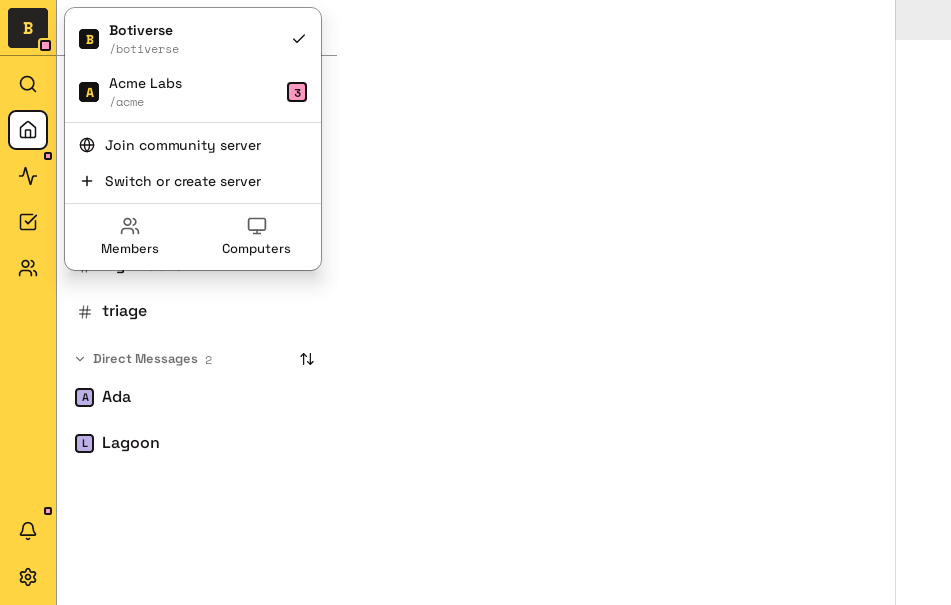
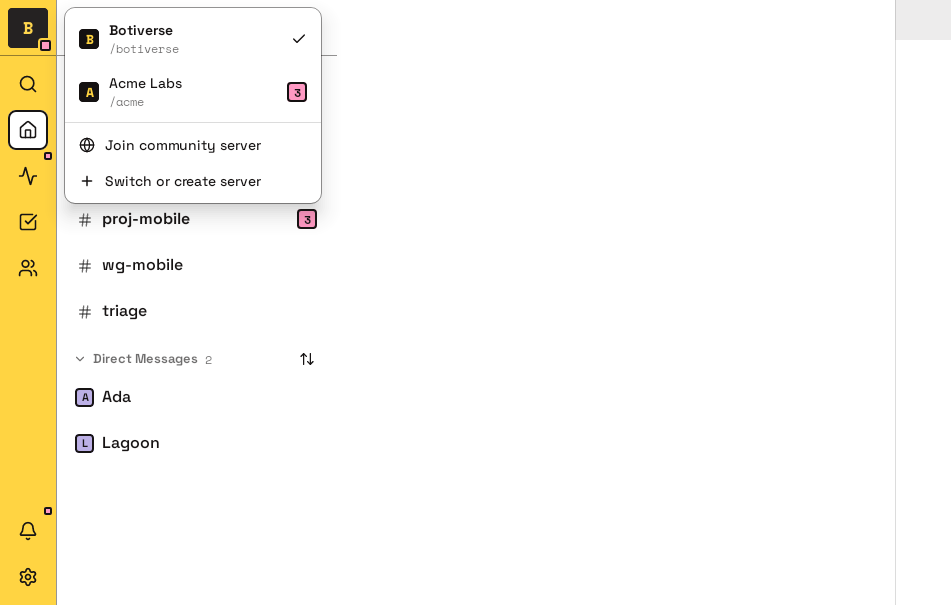
feat(home): wide server switcher has no Members / Computers row
artin (Compose 版): the popover's bottom row repeats the wide layout — the rail
has Members and Settings, and Computers is a Settings section. On a wide screen
the popover draws no pages row; phones keep it (no rail).

Changed region(s): [[0.061, 0.3273, 0.3354, 0.476]]

diff --git a/compose/shared/src/commonMain/kotlin/build/raft/app/AppShellTabs.kt b/compose/shared/src/commonMain/kotlin/build/raft/app/AppShellTabs.kt
@@ -277,23 +277,16 @@ internal fun raftServerMenuModel(
 
 /**
  * The server's pages in the popover's bottom row (raft-design #741, navigation.md "The server
- * in the apps' desktop mode"). On a wide screen the rail already has Settings at its foot, so
- * the row leaves it out; a guest has neither Members nor Computers, so a guest's row on a wide
- * screen is empty and the popover draws no row at all. The phone keeps every page.
+ * in the apps' desktop mode"). The phone keeps every page: it has no rail. On a wide screen the
+ * rail already has Members and Settings, and Computers is a Settings section, so the row would
+ * only repeat them and the popover draws no row at all (artin, 10-29: "电脑端这里就不用有两个选择").
  */
 internal fun raftServerMenuEntriesFor(
     entries: List<RaftServerMenuEntry>,
     wide: Boolean,
     guest: Boolean,
 ): List<RaftServerMenuEntry> =
-    if (!wide) {
-        entries
-    } else {
-        entries.filter { entry ->
-            entry != RaftServerMenuEntry.Settings &&
-                !(guest && (entry == RaftServerMenuEntry.Members || entry == RaftServerMenuEntry.Computers))
-        }
-    }
+    if (!wide) entries else emptyList()
 
 /** The unread count a server row shows: the Home switcher's label, or null. */
 internal fun raftServerMenuUnreadLabel(server: RaftServerSwitcherItem): String? =

diff --git a/compose/shared/src/commonTest/kotlin/build/raft/app/RaftServerMenuModelTest.kt b/compose/shared/src/commonTest/kotlin/build/raft/app/RaftServerMenuModelTest.kt
@@ -12,15 +12,15 @@ import kotlin.test.assertTrue
 /** Design D1a: the current-server tab, its menu, the switch that keeps the tab, the dot mapping. */
 class RaftServerMenuModelTest {
     @Test
-    fun wideScreenRowLeavesSettingsToTheRailAndAGuestGetsNoRow() {
+    fun wideScreenPopoverHasNoPagesRowThePhoneKeepsIt() {
         // raft-design #741 (navigation.md, "The server in the apps' desktop mode").
         val all = RaftServerMenuEntry.entries
         assertEquals(all, raftServerMenuEntriesFor(all, wide = false, guest = false), "the phone keeps every page")
         assertEquals(all, raftServerMenuEntriesFor(all, wide = false, guest = true), "the phone's row is unchanged")
         assertEquals(
-            listOf(RaftServerMenuEntry.Members, RaftServerMenuEntry.Computers),
+            emptyList(),
             raftServerMenuEntriesFor(all, wide = true, guest = false),
-            "Settings sits at the rail's foot",
+            "the rail has Members and Settings; Computers is a Settings section",
         )
         assertEquals(emptyList(), raftServerMenuEntriesFor(all, wide = true, guest = true), "a guest's wide popover has no row")
     }

diff --git a/change-logs/1.17.1/changesets/server-menu-wide-no-pages.md b/change-logs/1.17.1/changesets/server-menu-wide-no-pages.md
@@ -1,0 +1,22 @@
+---
+type: improved
+area: navigation
+platforms:
+  - android
+  - ios
+  - desktop
+pull_request: TBD
+rollout: full
+---
+
+## zh-CN
+
+在大屏和桌面上，切换服务器的菜单不再显示底部的"成员 / 电脑"入口：左侧栏已经有成员，电脑在设置里。手机上保持不变。
+
+## en
+
+On large screens and desktop, the server switcher no longer shows the Members / Computers row at the bottom: the side rail already has Members, and Computers is in Settings. Phones are unchanged.
+
+## ja
+
+大きな画面とデスクトップでは、サーバー切り替えメニューの下部にあった「メンバー / コンピューター」を表示しなくなりました。メンバーはサイドのレールに、コンピューターは設定にあります。スマートフォンは変わりません。
